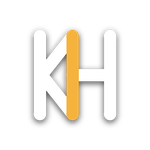
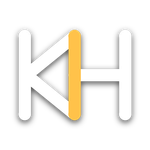
Marka dosyaları uygulamadaki orana ve palete çekildi
Monogramın iki oranı değişti: ortak dikey 0.50 yerine 0.72, H'nin sağ
bacağı 0.98 yerine 1.37 — yani uygulamada ve canlıda duran geniş çizim.
Palet de uygulamanın tema değişkenlerinden alındı (amber #FFC24A).

ciz() ve kilit/profil/filigran ölçülerindeki 106 birimlik eski genişlik
145'e çekildi; PNG'ler bu yüzden yamuluyordu. OKU.md geometri ve renk
tabloları güncellendi, ölçünün kaynağının uygulama olduğu yazıldı.

diff --git a/marka/uret/logo.py b/marka/uret/logo.py
@@ -1,17 +1,17 @@
 from PIL import Image, ImageDraw, ImageFont
 import os
 OUT = os.path.join(os.path.dirname(__file__), '..')
-INK, KOYU, AMBER = '#E8EDF7', '#0D1220', '#F5B23C'
+INK, KOYU, AMBER = '#E9EEF7', '#0F1520', '#FFC24A'
 
-SVG = """<svg xmlns="http://www.w3.org/2000/svg" viewBox="0 -8 106 116" width="106" height="116" role="img" aria-label="KH monogram">
+SVG = """<svg xmlns="http://www.w3.org/2000/svg" viewBox="0 -8 145 116" width="145" height="116" role="img" aria-label="KH monogram">
   <title>Kıvanç Hoca ile Eğitim Koçluğu — KH monogramı</title>
   <g fill="none" stroke-width="16" stroke-linecap="round">
     <path d="M8 0V100" stroke="{ink}"/>
-    <path d="M10.4 50L50 0" stroke="{ink}"/>
-    <path d="M10.4 50L50 100" stroke="{ink}"/>
-    <path d="M50 50H98" stroke="{ink}"/>
-    <path d="M98 0V100" stroke="{ink}"/>
-    <path d="M50 0V100" stroke="{amber}"/>
+    <path d="M10.4 50L72 0" stroke="{ink}"/>
+    <path d="M10.4 50L72 100" stroke="{ink}"/>
+    <path d="M72 50H137" stroke="{ink}"/>
+    <path d="M137 0V100" stroke="{ink}"/>
+    <path d="M72 0V100" stroke="{amber}"/>
   </g>
 </svg>
 """
@@ -29,18 +29,18 @@ def ciz(d, olc, ox, oy, ink, amber):
         for p in (a, b):
             d.ellipse([p[0]-r, p[1]-r, p[0]+r, p[1]+r], fill=renk)
     L((8, 0), (8, 100), ink)
-    L((10.4, 50), (50, 0), ink)
-    L((10.4, 50), (50, 100), ink)
-    L((50, 50), (98, 50), ink)
-    L((98, 0), (98, 100), ink)
-    L((50, 0), (50, 100), amber)
+    L((10.4, 50), (72, 0), ink)
+    L((10.4, 50), (72, 100), ink)
+    L((72, 50), (137, 50), ink)
+    L((137, 0), (137, 100), ink)
+    L((72, 0), (72, 100), amber)
 
 def png(path, ink, hedef_h=1024):
     s = hedef_h / 116 * 4
-    W, H = int(106 * s), int(116 * s)
+    W, H = int(145 * s), int(116 * s)
     img = Image.new('RGBA', (W, H), (0, 0, 0, 0))
     ciz(ImageDraw.Draw(img), s, 0, 8 * s, hx(ink) + (255,), hx(AMBER) + (255,))
-    img.resize((int(106 * hedef_h / 116), hedef_h), Image.LANCZOS).save(path)
+    img.resize((int(145 * hedef_h / 116), hedef_h), Image.LANCZOS).save(path)
 
 png(f'{OUT}/logo-kh.png', INK)
 png(f'{OUT}/logo-kh-acik-zemin.png', KOYU)
@@ -50,7 +50,7 @@ def profil(path, zemin, ink, boy=1080, h_oran=0.44):
     s = 3; P = boy * s
     img = Image.new('RGB', (P, P), hx(zemin))
     olc = boy * h_oran * s / 100
-    ciz(ImageDraw.Draw(img), olc, (P - 106 * olc) / 2, (P - 100 * olc) / 2, hx(ink), hx(AMBER))
+    ciz(ImageDraw.Draw(img), olc, (P - 145 * olc) / 2, (P - 100 * olc) / 2, hx(ink), hx(AMBER))
     img.resize((boy, boy), Image.LANCZOS).save(path)
 
 profil(f'{OUT}/profil-1080-koyu.png', KOYU, INK)
@@ -65,10 +65,10 @@ def kilit(path, ink):
     s = 3; h = 120 * s; olc = h / 100
     ad = 'Kıvanç Hoca ile Eğitim Koçluğu'
     f = bric(int(96 * s)); tw = f.getlength(ad); pad = 40 * s
-    W = int(106 * olc + pad + tw + 8); H = int(h + 40 * s)
+    W = int(145 * olc + pad + tw + 8); H = int(h + 40 * s)
     img = Image.new('RGBA', (W, H), (0, 0, 0, 0)); d = ImageDraw.Draw(img)
     ciz(d, olc, 0, (H - h) / 2, hx(ink) + (255,), hx(AMBER) + (255,))
-    d.text((106 * olc + pad, H / 2), ad, font=f, fill=hx(ink) + (255,), anchor='lm')
+    d.text((145 * olc + pad, H / 2), ad, font=f, fill=hx(ink) + (255,), anchor='lm')
     img.resize((W // s, H // s), Image.LANCZOS).save(path)
 
 kilit(f'{OUT}/logo-yatay.png', INK)
@@ -85,7 +85,7 @@ def filigran(path, ink, boy=150, h_oran=0.52, daire=None, golge=True):
     if daire:
         ImageDraw.Draw(img).ellipse([0, 0, P - 1, P - 1], fill=hx(daire) + (225,))
     olc = boy * h_oran * s / 100
-    ox, oy = (P - 106 * olc) / 2, (P - 100 * olc) / 2
+    ox, oy = (P - 145 * olc) / 2, (P - 100 * olc) / 2
     if golge and not daire:
         g = Image.new('RGBA', (P, P), (0, 0, 0, 0))
         ciz(ImageDraw.Draw(g), olc, ox, oy + 2 * s, (0, 0, 0, 190), (0, 0, 0, 190))

diff --git a/marka/uret/temel.py b/marka/uret/temel.py
@@ -10,13 +10,13 @@ SX0, SY0 = (W - SAFE_W) // 2, (H - SAFE_H) // 2   # 507, 508
 SX1, SY1 = SX0 + SAFE_W, SY0 + SAFE_H             # 2053, 931
 CY = H // 2
 
-BG      = (13, 18, 32)
+BG      = (15, 21, 32)
 BG2     = (17, 24, 42)
-INK     = (232, 237, 247)
+INK     = (233, 238, 247)
 MUTED   = (139, 155, 184)
 FAINT   = (44, 56, 82)
-AMBER   = (245, 178, 60)
-AMBER_D = (196, 134, 34)
+AMBER   = (255, 194, 74)
+AMBER_D = (214, 154, 44)
 BLUE    = (74, 128, 240)
 
 BR = os.path.join(os.path.dirname(__file__), 'fontlar', 'Bricolage.ttf')
@@ -62,8 +62,8 @@ def monogram(d, x, y, h, amber=AMBER, ink=INK):
     w = h * 0.16
     top, bot = y, y + h
     sx = x + w / 2                    # K govdesi
-    mx = x + h * 0.50                 # ortak dikey (K kol ucu = H sol bacak)
-    rx = x + h * 0.98                 # H sag bacak
+    mx = x + h * 0.72                 # ortak dikey (K kol ucu = H sol bacak)
+    rx = x + h * 1.37                 # H sag bacak
     my = y + h * 0.5
     stroke(d, (sx, top), (sx, bot), int(w), ink)                # K govde
     stroke(d, (sx + w * 0.15, my), (mx, top), int(w), ink)      # K ust kol

diff --git a/marka/OKU.md b/marka/OKU.md
@@ -5,8 +5,9 @@ Bir yerde marka işareti lazım olduğunda bu klasördeki dosya kullanılır; ye
 çizim yapılmaz.
 
 Bu klasör siteye dahil değildir (`public/` altında değil), derlemeye girmez.
-Sitenin kendi kullandığı işaret `src/bilesenler/Marka.jsx` içinde, ikonlar
-`public/` altındadır — ikisi de aşağıdaki aynı geometriyi kullanır.
+Ölçünün kaynağı uygulamadır: `src/bilesenler/Marka.jsx` ve `public/` altındaki
+ikonlar neyi çiziyorsa buradaki dosyalar onu izler, tersi değil. Oran ya da renk
+değişecekse önce uygulamada değişir, sonra `uret/` betikleri yeniden çalıştırılır.
 
 ---
 
@@ -42,12 +43,14 @@ imza hattı budur. Turuncu başka hiçbir yere girmez.
 Geometri (100 birim yükseklik, çizgi kalınlığı 16, uçlar yuvarlak):
 
 ```
-K gövde       x = 8,    y = 0 → 100
-K üst kol     (10.4, 50) → (50, 0)
-K alt kol     (10.4, 50) → (50, 100)
-H orta çizgi  y = 50,   x = 50 → 98
-H sağ bacak   x = 98,   y = 0 → 100
-Ortak dikey   x = 50,   y = 0 → 100     ← amber, en üstte çizilir
+K gövde       x = 8,     y = 0 → 100
+K üst kol     (10.4, 50) → (72, 0)
+K alt kol     (10.4, 50) → (72, 100)
+H orta çizgi  y = 50,    x = 72 → 137
+H sağ bacak   x = 137,   y = 0 → 100
+Ortak dikey   x = 72,    y = 0 → 100    ← amber, en üstte çizilir
+
+Toplam genişlik 145 birim (çizgi kalınlığı dahil), yükseklik 100.
 ```
 
 Ortak dikey **en son** çizilir; altındaki kol uçları ve orta çizginin başı onun
@@ -62,10 +65,10 @@ altında kalır, amber bant kesintisiz görünür.
 
 | | |
 | --- | --- |
-| Harfler (koyu zemin) | `#E8EDF7` |
-| Harfler (açık zemin) | `#0D1220` |
-| Ortak dikey — amber | `#F5B23C` |
-| Zemin | `#0D1220` |
+| Harfler (koyu zemin) | `#E9EEF7` |
+| Harfler (açık zemin) | `#0F1520` |
+| Ortak dikey — amber | `#FFC24A` |
+| Zemin | `#0F1520` |
 
 Başlıklar **Bricolage Grotesque** (700), alt satırlar **Karla**. İkisi de uygulamanın
 kullandığı aileler; font dosyaları `uret/fontlar/` altında (SIL Open Font License).
